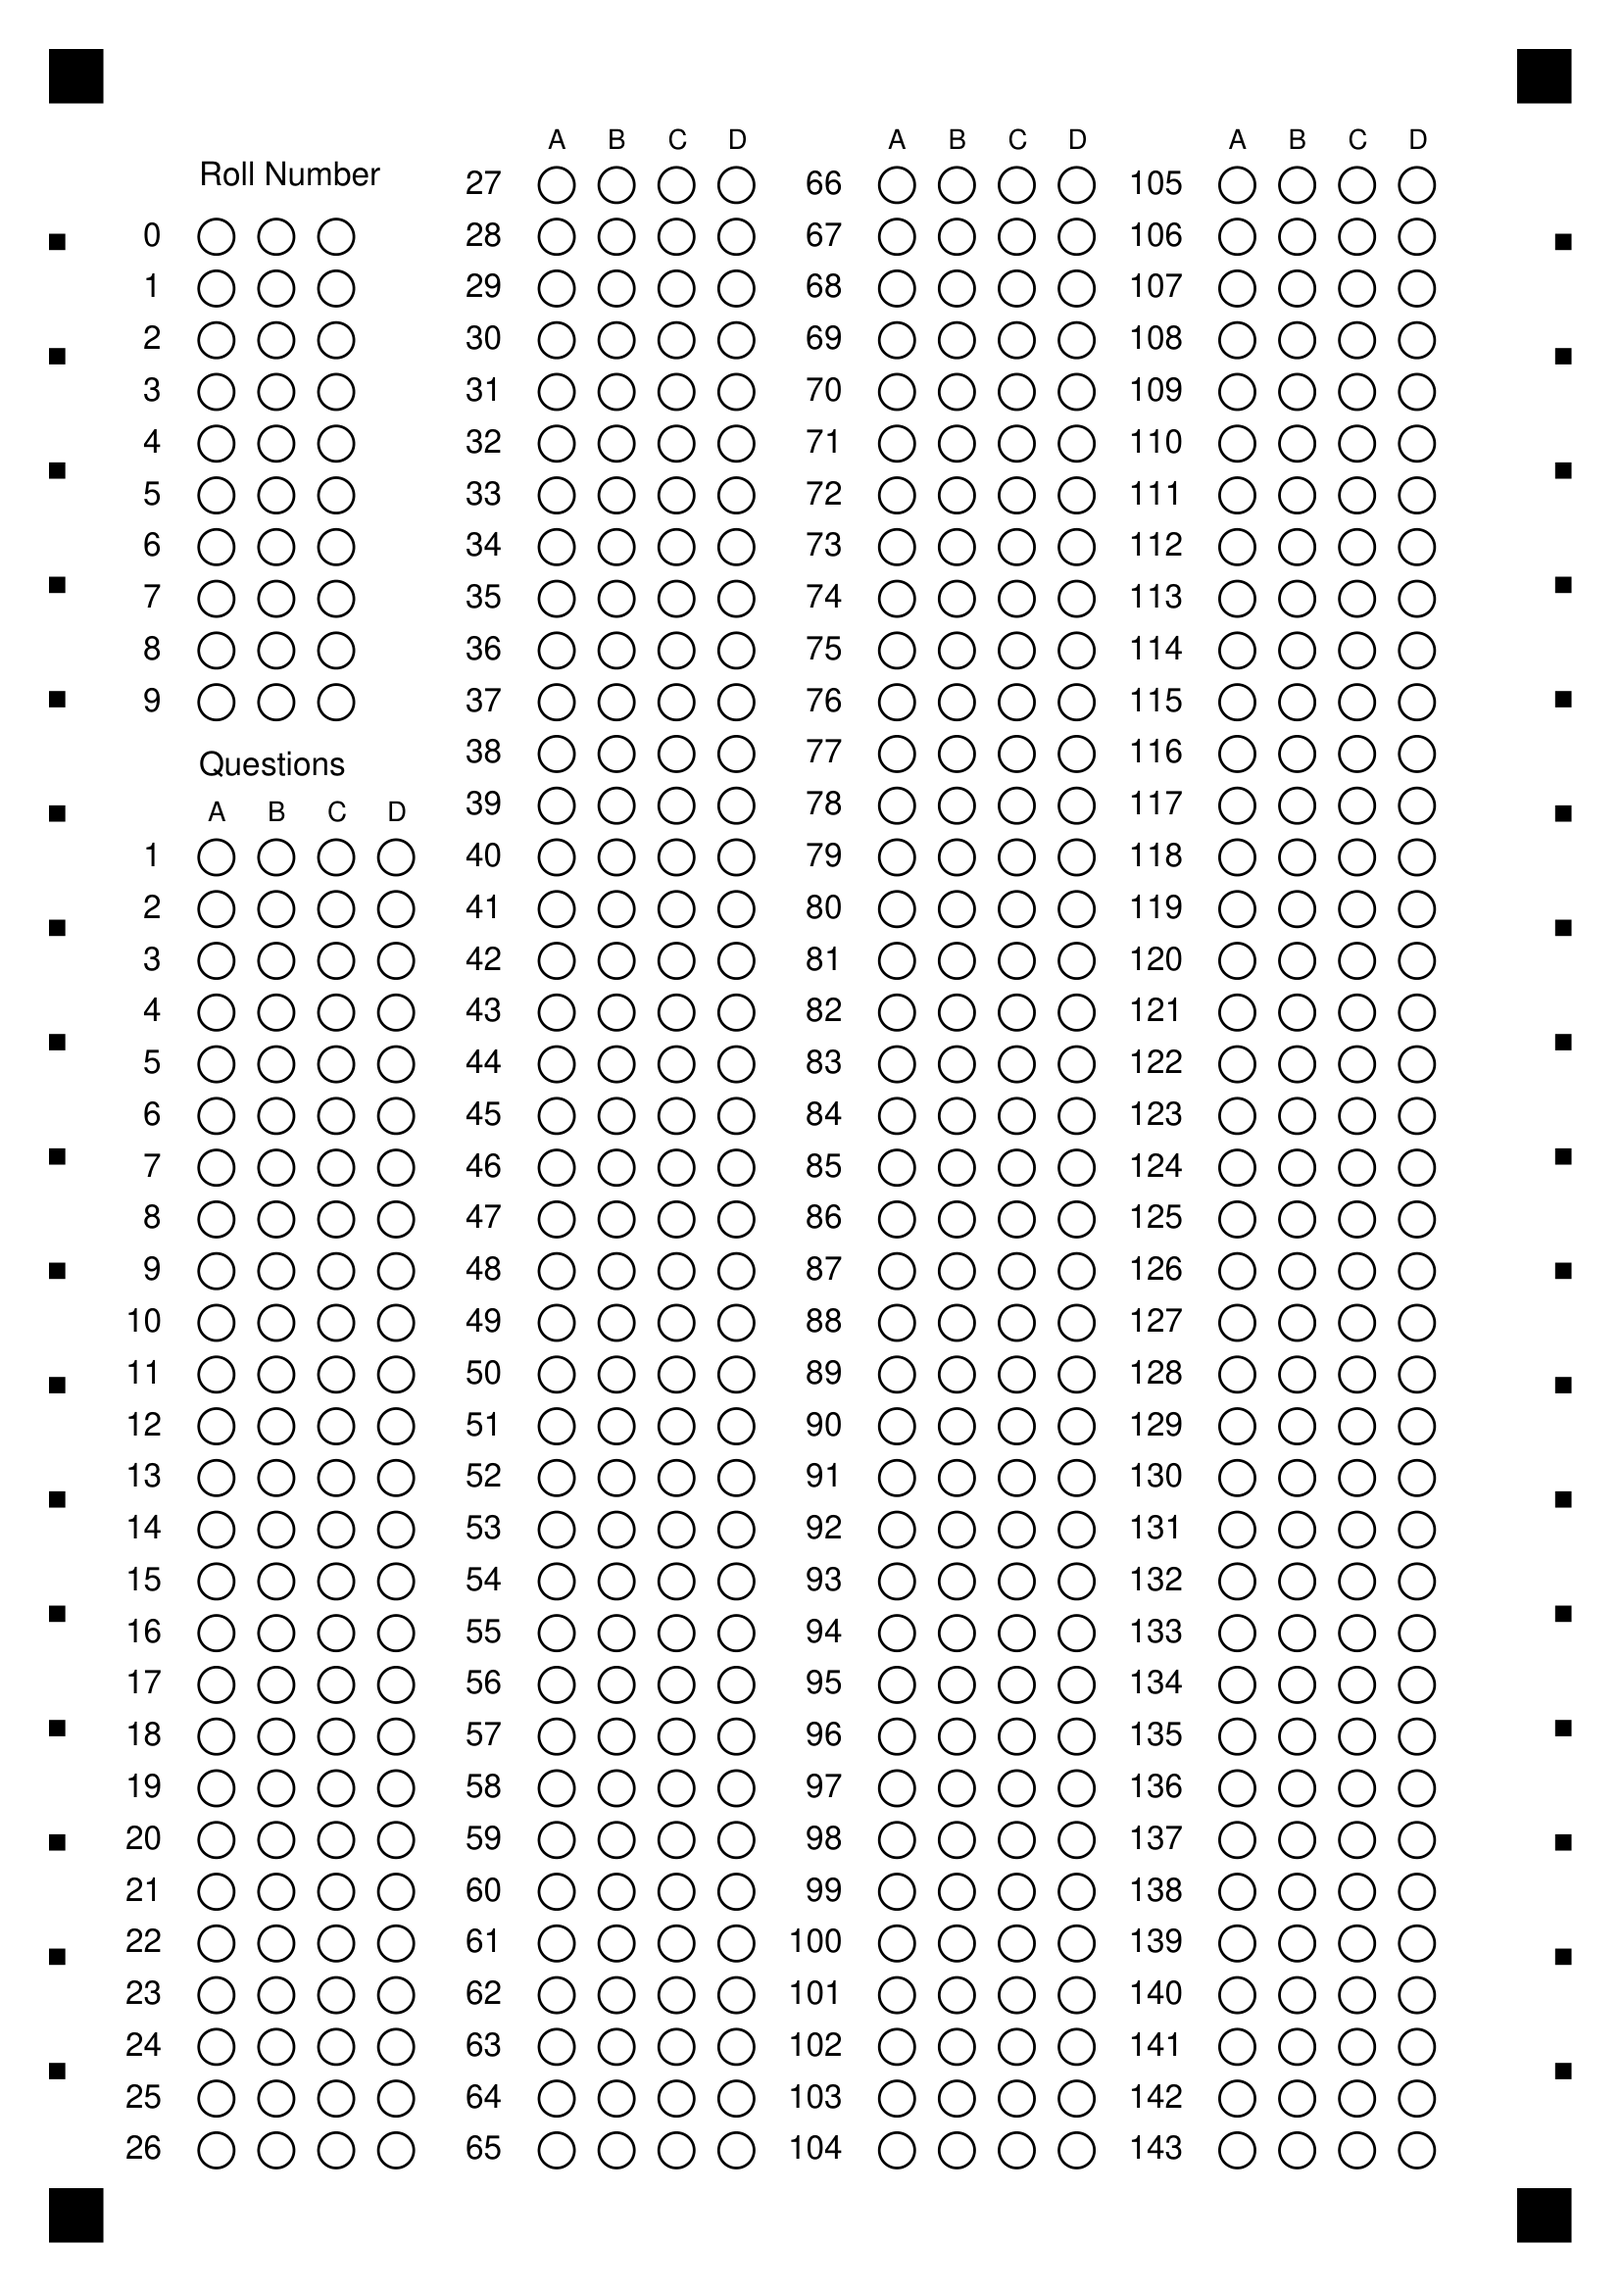
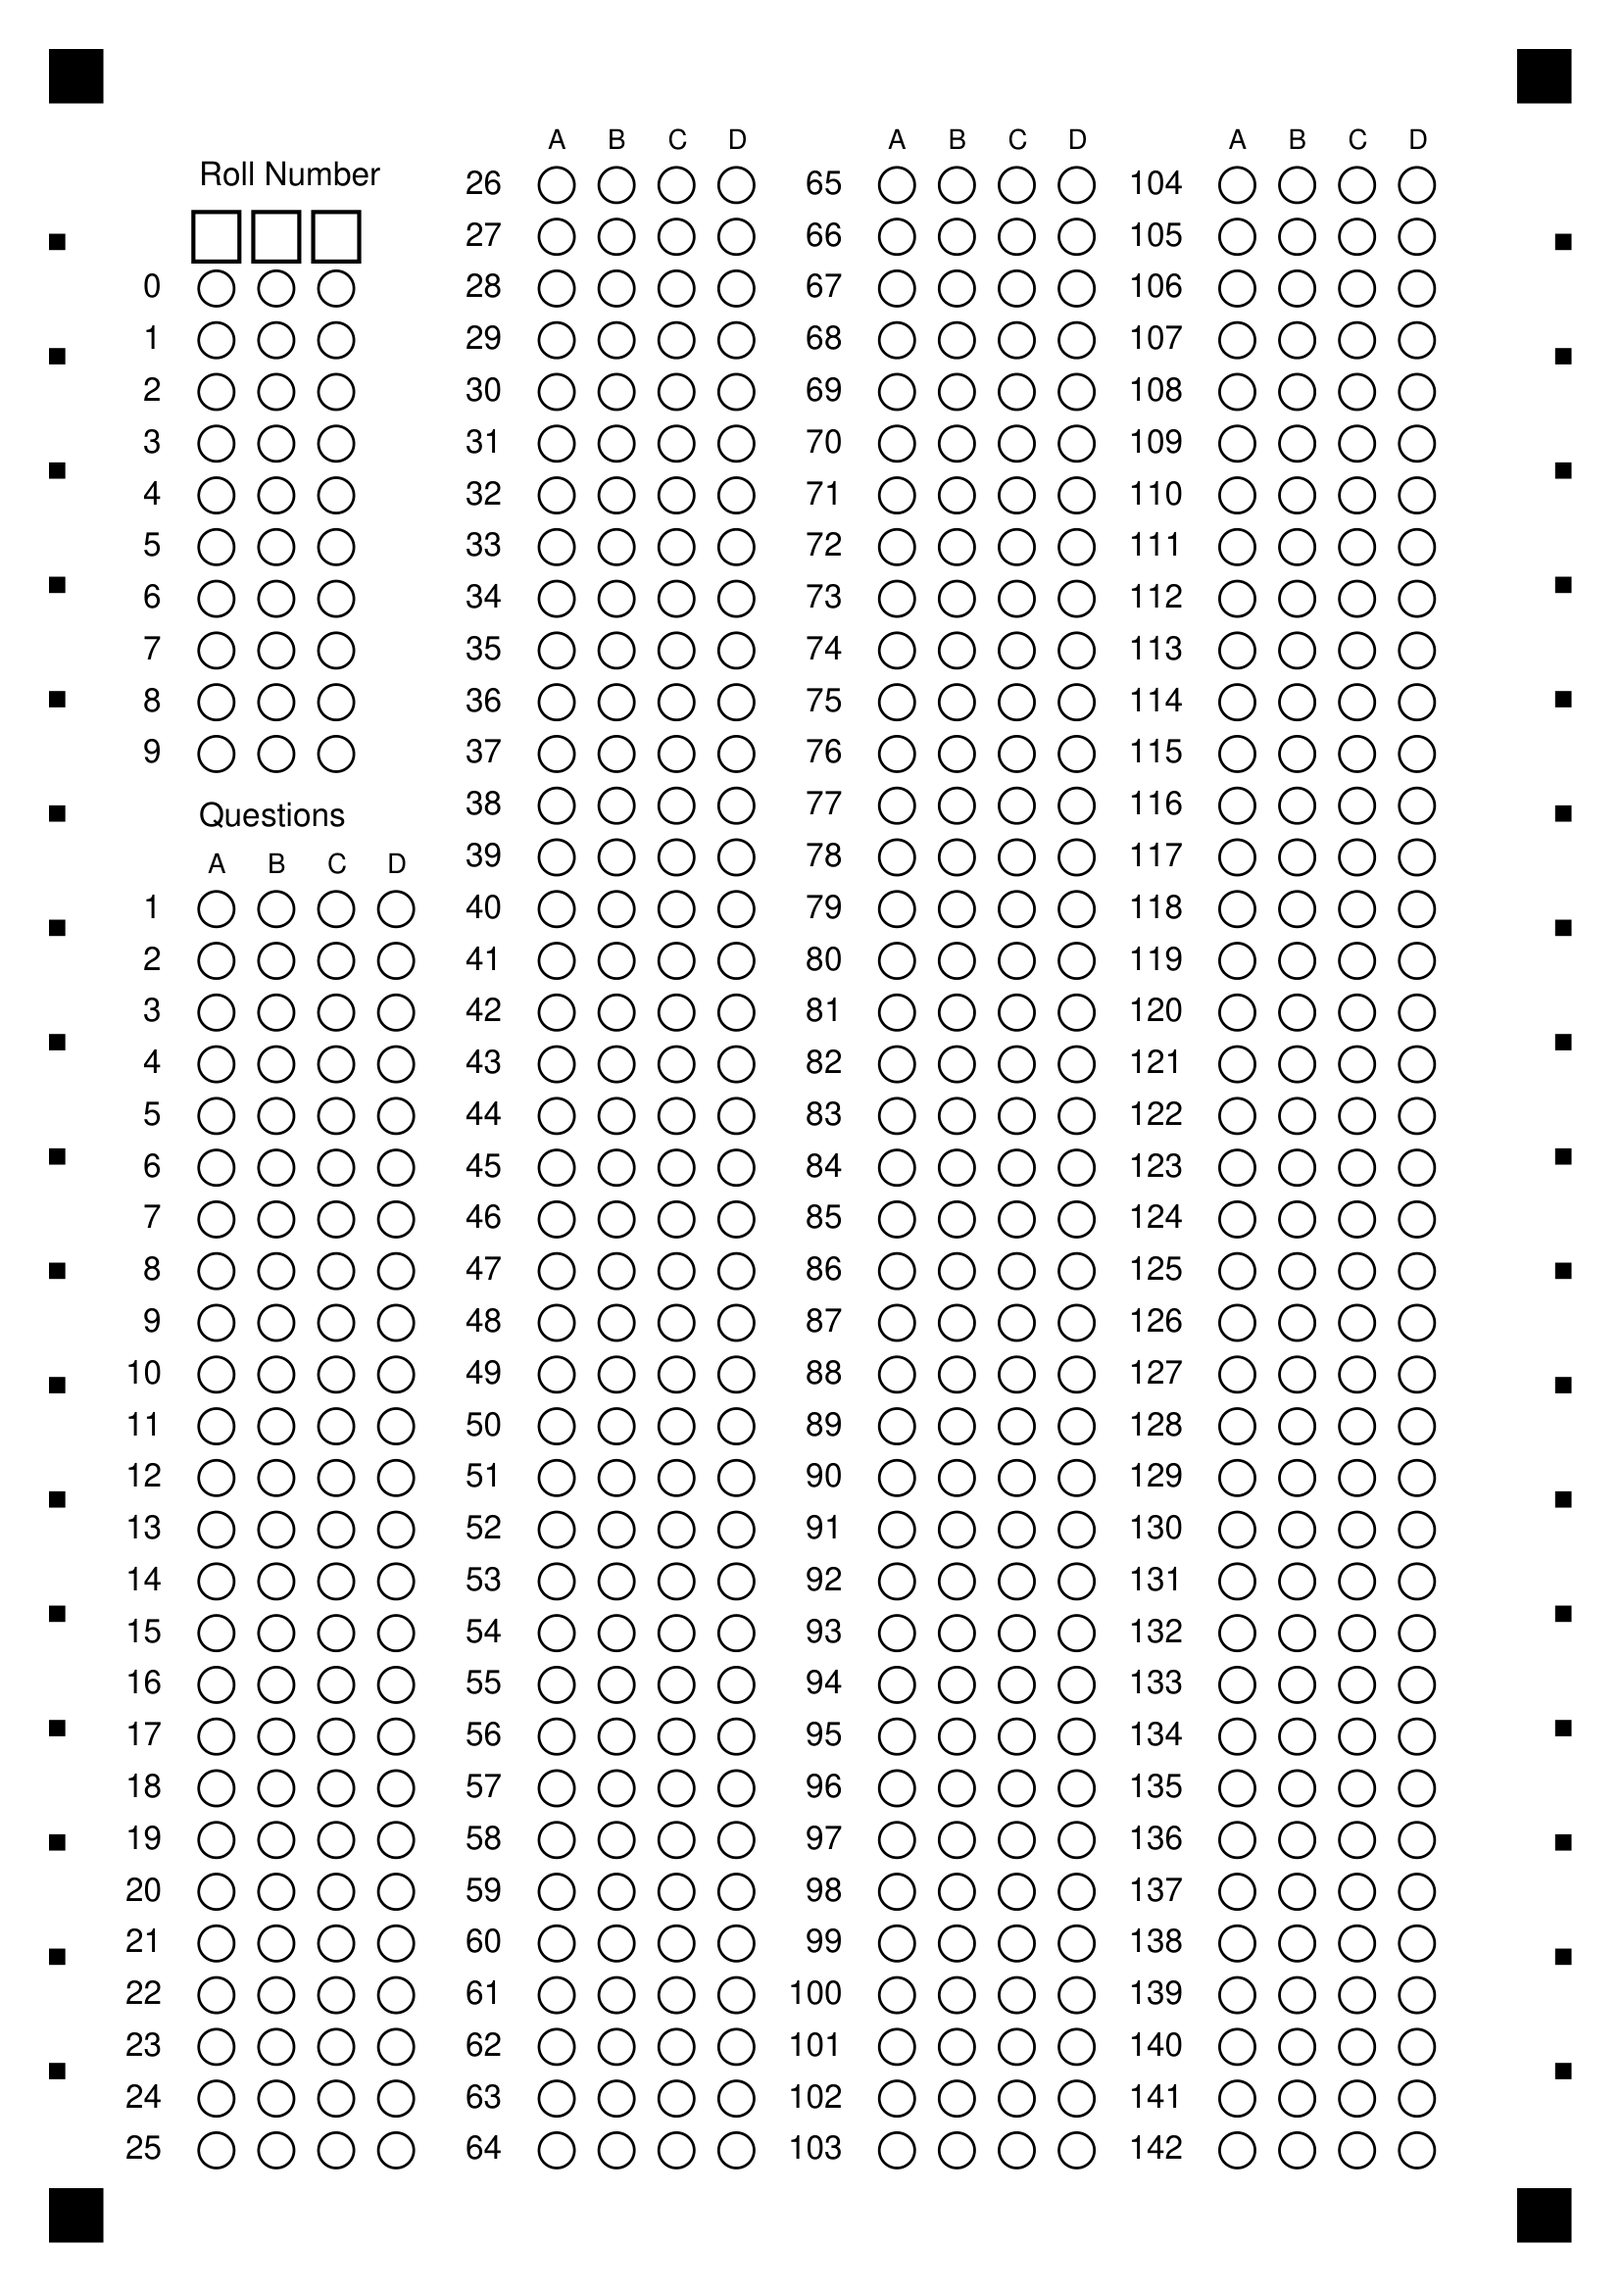
Add write-in boxes for roll numbers and make layout responsive
- Add write-in boxes above roll number bubbles for manual entry
- Shift roll bubbles down by one row to accommodate write-in boxes
- Refactor layout to use single source of truth for roll section geometry
- Pass roll_bottom through call chain instead of recalculating
- Update all consumers to handle new return value from generate_all_bubble_coordinates

This makes the layout automatically responsive to spacing changes without
requiring manual synchronization between roll and question sections.

diff --git a/omr_sheet_generator.py b/omr_sheet_generator.py
@@ -111,15 +111,38 @@ def draw_roll_number_section(
     content: PDFContent,
     geom: PageGeometry,
     layout: BubbleLayout,
+    sheet: SheetLayout,
     bubbles: List[BubbleCoordinate],
 ) -> None:
-    """Draw roll number bubbles and labels at specified coordinates."""
+    """Draw roll number bubbles, labels, and write-in boxes at specified coordinates."""
     if not bubbles:
         return
 
     # Calculate label position using layout geometry
     label_x, label_y = calculate_roll_label_position(geom, layout)
     content.draw_text(label_x, label_y, "Roll Number")
+
+    # Calculate geometry for write-in boxes (matching bubble positions)
+    top_y = geom.height - geom.margin - layout.diameter
+    left_padding = layout.column_padding / 2
+    x_start = geom.margin + layout.label_column_width + left_padding + layout.radius
+
+    # Draw write-in boxes for manual roll number entry
+    # Boxes occupy row 2 (between label at row 1 and first bubbles at row 3)
+    box_width = layout.diameter * 1.3
+    box_height = layout.diameter * 1.4
+    box_y_center = top_y - layout.vertical_gap * 2
+
+    content.set_line_width(1.5)
+    content.set_stroke_color(0, 0, 0)
+
+    for col in range(sheet.roll_columns):
+        # Calculate x to match bubble column centers
+        box_x_center = x_start + col * (layout.diameter + layout.option_gap)
+        # Convert center to bottom-left corner for PDF rectangle
+        box_x = box_x_center - box_width / 2
+        box_y = box_y_center - box_height / 2
+        content.stroke_rect(box_x, box_y, box_width, box_height)
 
     content.set_line_width(1)
     content.set_stroke_color(0, 0, 0)
@@ -150,13 +173,14 @@ def draw_question_columns(
     layout: BubbleLayout,
     sheet: SheetLayout,
     bubbles: List[BubbleCoordinate],
+    roll_bottom: float,
 ) -> None:
     """Draw question bubbles and labels at specified coordinates."""
     if not bubbles:
         return
 
-    # Calculate "Questions" label position using layout geometry
-    label_x, label_y = calculate_questions_label_position(geom, layout, sheet)
+    # Calculate "Questions" label position using layout geometry and roll section bottom
+    label_x, label_y = calculate_questions_label_position(geom, layout, sheet, roll_bottom)
     if label_x > 0 and label_y > 0:  # Valid position found
         content.draw_text(label_x, label_y, "Questions")
 
@@ -289,13 +313,13 @@ def generate_omr_sheet(output_path: Path) -> None:
     content = PDFContent()
 
     # Generate bubble coordinates procedurally
-    roll_bubbles, question_bubbles = generate_all_bubble_coordinates(geom, layout, sheet)
+    roll_bubbles, question_bubbles, roll_bottom = generate_all_bubble_coordinates(geom, layout, sheet)
 
     # Draw all components
     draw_anchor_markers(content, geom, markers)
     draw_grid_markers(content, geom, markers)
-    draw_roll_number_section(content, geom, layout, roll_bubbles)
-    draw_question_columns(content, geom, layout, sheet, question_bubbles)
+    draw_roll_number_section(content, geom, layout, sheet, roll_bubbles)
+    draw_question_columns(content, geom, layout, sheet, question_bubbles, roll_bottom)
 
     build_pdf(geom.width, geom.height, content.render(), output_path)
 

diff --git a/omr_layout.py b/omr_layout.py
@@ -48,8 +48,8 @@ def generate_roll_bubble_coordinates(
 
     bubbles = []
     for row in range(sheet.roll_rows):
-        # Shift bubbles down by one row to make space for label in row 0
-        y = top_y - (row + 2) * layout.vertical_gap
+        # Shift bubbles down by two rows to make space for label and write-in boxes
+        y = top_y - (row + 3) * layout.vertical_gap
         for col in range(sheet.roll_columns):
             x = x_start + col * (layout.diameter + layout.option_gap)
             bubbles.append(BubbleCoordinate(
@@ -61,8 +61,8 @@ def generate_roll_bubble_coordinates(
                 digit=row % 10,
             ))
 
-    # Adjust bottom_y to account for the extra row used by the label
-    bottom_y = top_y - (sheet.roll_rows + 1) * layout.vertical_gap - layout.radius
+    # Adjust bottom_y to account for the extra rows used by label and write-in boxes
+    bottom_y = top_y - (sheet.roll_rows + 2) * layout.vertical_gap - layout.radius
     return bubbles, top_y, area_width, bottom_y
 
 
@@ -157,16 +157,18 @@ def calculate_questions_label_position(
     geom: PageGeometry,
     layout: BubbleLayout,
     sheet: SheetLayout,
+    roll_bottom: float,
 ) -> tuple[float, float]:
     """Calculate the position for 'Questions' label above option headers.
+
+    Args:
+        roll_bottom: Bottom edge of roll number section (passed from generate_roll_bubble_coordinates)
 
     Returns:
         (x, y) coordinates for the label, or (0, 0) if no valid position
     """
-    # Recalculate the geometry to find the first question bubble
+    # Use geometry to find the first question bubble
     top_y = geom.height - geom.margin - layout.diameter
-    # Account for the extra row used by the Roll Number label
-    roll_bottom = top_y - (sheet.roll_rows + 1) * layout.vertical_gap - layout.radius
 
     # Generate row centers for questions
     row_centers: List[float] = []
@@ -203,11 +205,11 @@ def generate_all_bubble_coordinates(
     geom: PageGeometry,
     layout: BubbleLayout,
     sheet: SheetLayout,
-) -> tuple[List[BubbleCoordinate], List[BubbleCoordinate]]:
+) -> tuple[List[BubbleCoordinate], List[BubbleCoordinate], float]:
     """Generate all bubble coordinates for an OMR sheet.
 
     Returns:
-        (roll_bubbles, question_bubbles)
+        (roll_bubbles, question_bubbles, roll_bottom)
     """
     roll_bubbles, roll_top, _, roll_bottom = generate_roll_bubble_coordinates(
         geom, layout, sheet
@@ -218,4 +220,4 @@ def generate_all_bubble_coordinates(
         geom, layout, sheet, roll_top, question_x_start, roll_bottom
     )
 
-    return roll_bubbles, question_bubbles
+    return roll_bubbles, question_bubbles, roll_bottom

diff --git a/tools/validate_bubbles.py b/tools/validate_bubbles.py
@@ -176,7 +176,7 @@ def validate_bubbles(image_path: Path, output_path: Path) -> None:
     print(f"PDF dimensions: {geom.width}x{geom.height} points")
 
     # Generate expected bubble coordinates
-    roll_bubbles, question_bubbles = generate_all_bubble_coordinates(geom, layout, sheet)
+    roll_bubbles, question_bubbles, _ = generate_all_bubble_coordinates(geom, layout, sheet)
     all_bubbles = roll_bubbles + question_bubbles
 
     # Convert PDF coordinates to image coordinates

diff --git a/omr_processor.py b/omr_processor.py
@@ -410,7 +410,7 @@ def sample_bubbles_from_coordinates(
         return [], []
 
     # Generate bubble coordinates using shared logic
-    roll_coords, question_coords = generate_all_bubble_coordinates(geom, layout, sheet)
+    roll_coords, question_coords, _ = generate_all_bubble_coordinates(geom, layout, sheet)
 
     height, width = corrected.shape[:2]
     gray = cv2.cvtColor(corrected, cv2.COLOR_BGR2GRAY) if corrected.ndim == 3 else corrected

diff --git a/tools/profile_bubble_fill.py b/tools/profile_bubble_fill.py
@@ -62,7 +62,7 @@ def profile_analyze_bubble_fill():
     print(f"Image size: {w}×{h} = {w*h:,} pixels")
 
     # Generate real bubble coordinates
-    roll_coords, question_coords = generate_all_bubble_coordinates(geom, layout, sheet)
+    roll_coords, question_coords, _ = generate_all_bubble_coordinates(geom, layout, sheet)
     all_coords = roll_coords + question_coords
     total_bubbles = len(all_coords)
 
